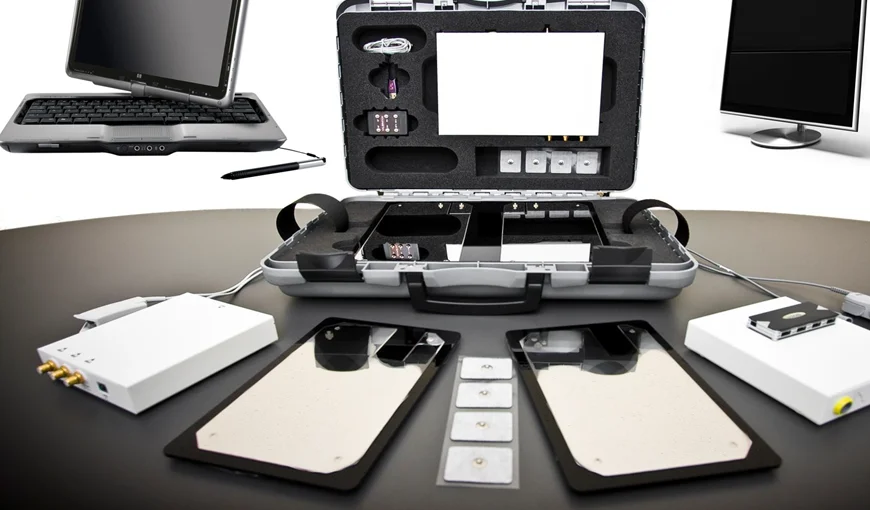
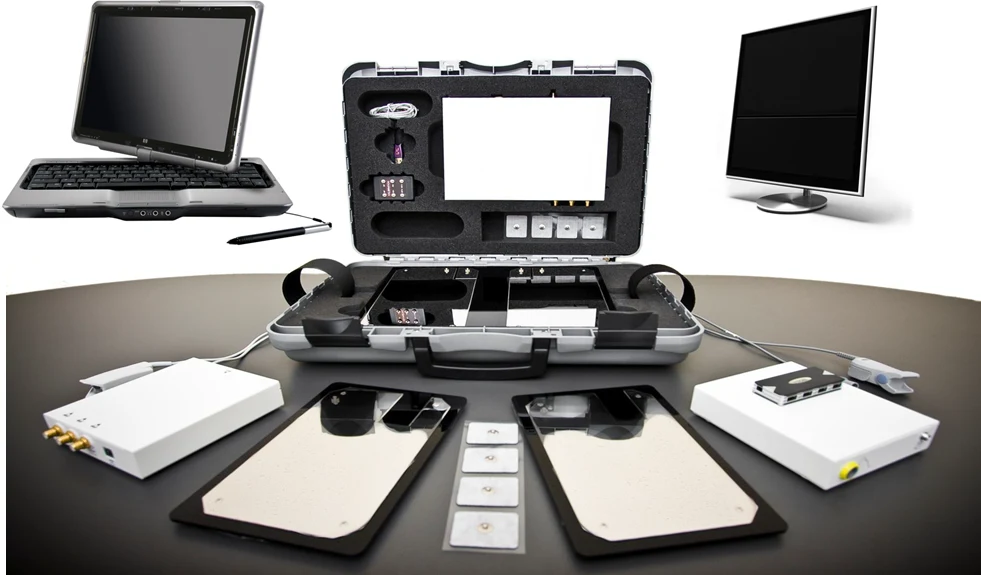
fix(assets): conservar 100% de la interfaz de es-complex a 981x575 eliminando unicamente los 6-13px de borde blanco

diff --git a/servicios/es-complex.html b/servicios/es-complex.html
@@ -125,7 +125,7 @@
         
         <!-- Main Content -->
         <article class="subpage-content">
-          <img src="../assets/img/technology/es-complex.png?v=873d76e6" alt="Sistema de Pre-diagnóstico Biointersticial ES-Complex en Vitametric CDMX" style="width: 100%; height: auto; display: block; border-radius: var(--radius-md); margin-bottom: 2.5rem; border: 1px solid var(--c-border); box-shadow: var(--shadow-md);" loading="eager" fetchpriority="high" decoding="async">
+          <img src="../assets/img/technology/es-complex.png?v=544f5f8f" alt="Sistema de Pre-diagnóstico Biointersticial ES-Complex en Vitametric CDMX" style="width: 100%; height: auto; display: block; border-radius: var(--radius-md); margin-bottom: 2.5rem; border: 1px solid var(--c-border); box-shadow: var(--shadow-md);" loading="eager" fetchpriority="high" decoding="async">
           
           <!-- Sección 1: Fundamento EIS -->
           <div class="rizo-micro-section rizo-micro-section--icon" style="margin-bottom: 2.75rem;">
